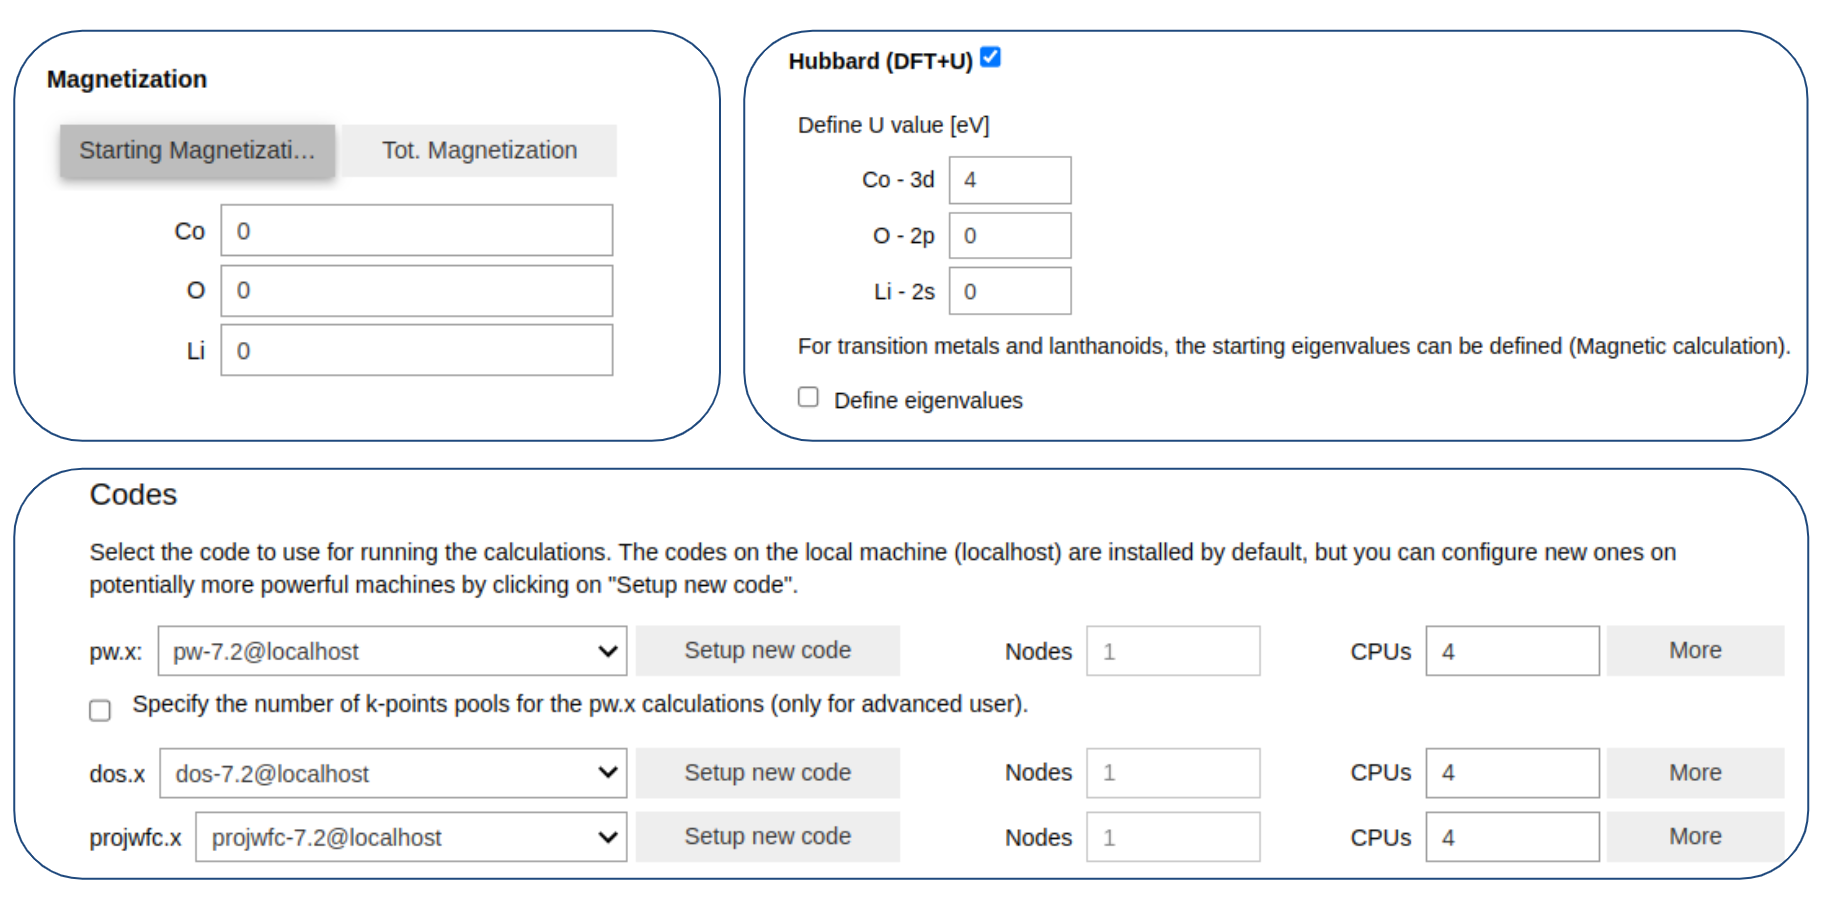
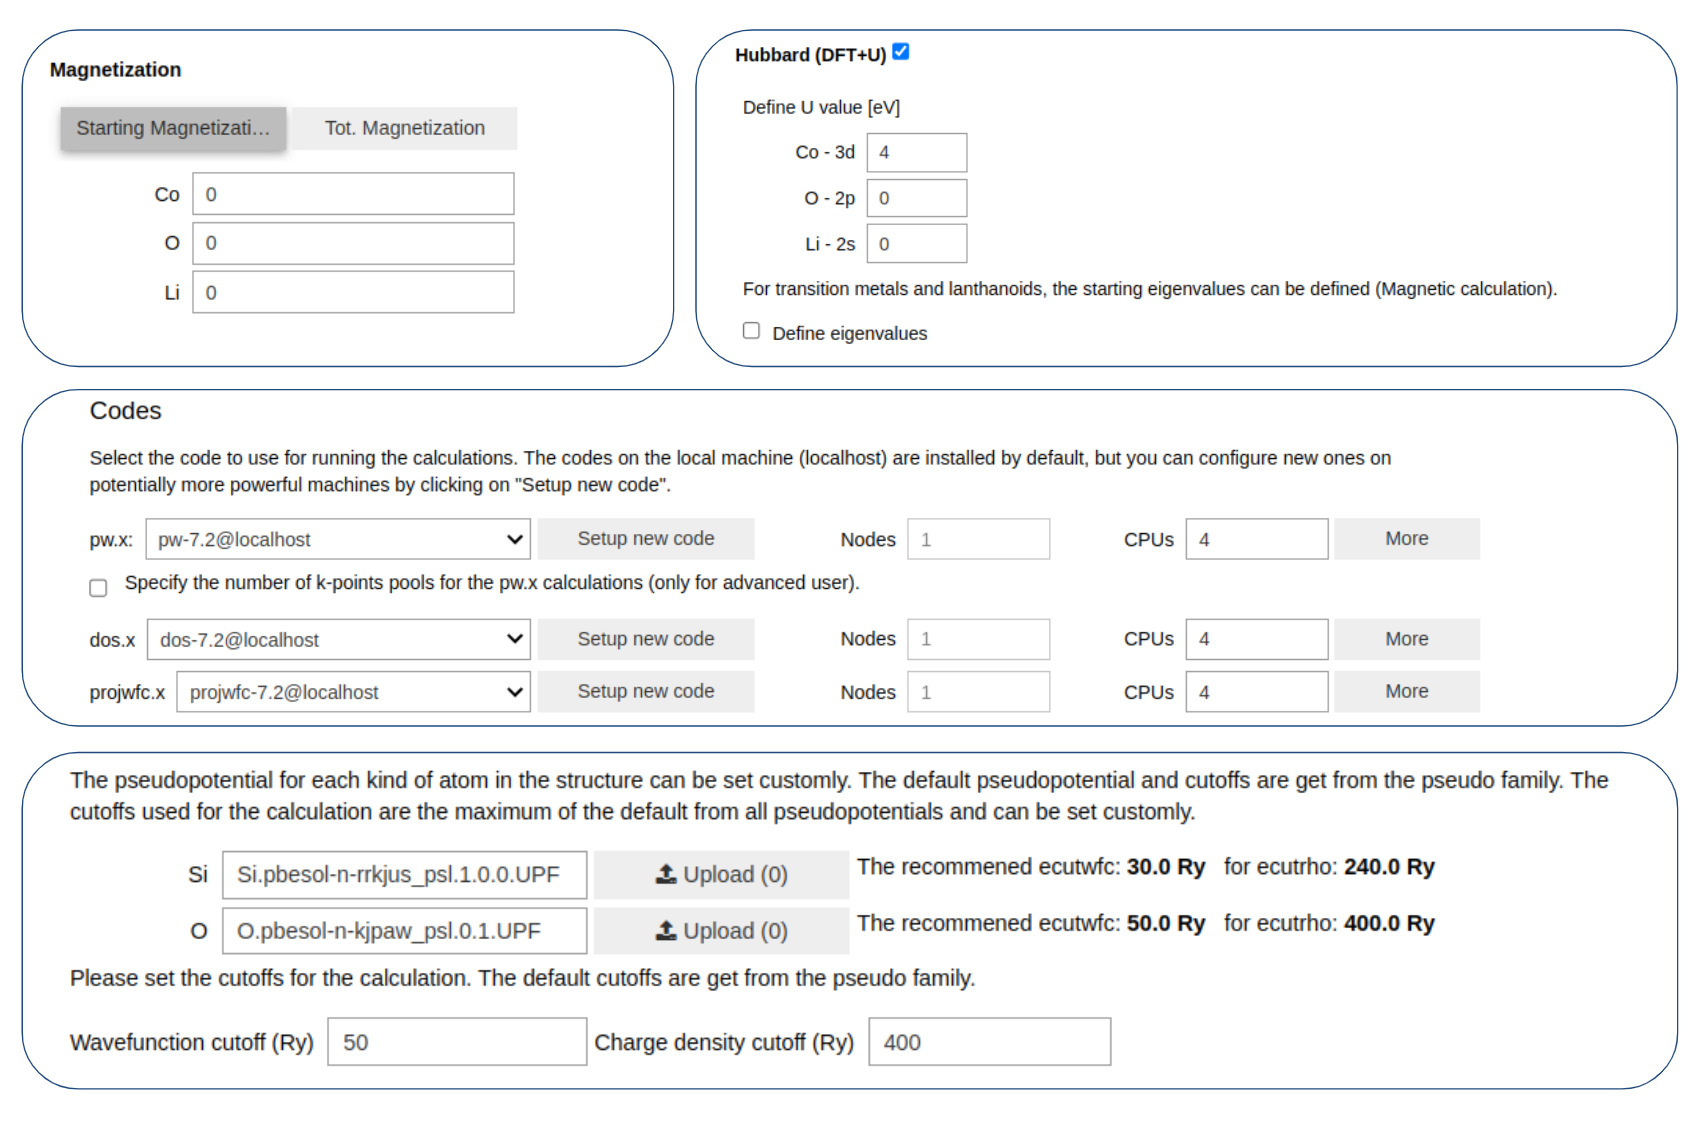
add pseudopotential widget and update the release details

diff --git a/docs/source/blogs/release_202404_details.rst b/docs/source/blogs/release_202404_details.rst
@@ -8,58 +8,61 @@ New Feature:
 
 
 - Add plugin: XPS by @superstar54 in `#518 <https://github.com/aiidalab/aiidalab-qe/pull/518>`_
-- Add new computational resource widget by @superstar54 in `#518 <https://github.com/aiidalab/aiidalab-qe/pull/566>`_
-- Support DFT+U by @AndresOrtegaGuerrero in `#518 <https://github.com/aiidalab/aiidalab-qe/pull/577>`_
-- Add plugin: XAS Plugin by @PNOGillespie in `#518 <https://github.com/aiidalab/aiidalab-qe/pull/580>`_
-- New BandsPdosWidget by @AndresOrtegaGuerrero in `#518 <https://github.com/aiidalab/aiidalab-qe/pull/581>`_
-- Add Van del Waals Correction widget by @AndresOrtegaGuerrero in `#518 <https://github.com/aiidalab/aiidalab-qe/pull/620>`_
-- Add plugin management page by @superstar54 in `#518 <https://github.com/aiidalab/aiidalab-qe/pull/646>`_
-- Add job search page by @superstar54 in `#518 <https://github.com/aiidalab/aiidalab-qe/pull/657>`_
-- Add label and description for the job by @superstar54 in `#518 <https://github.com/aiidalab/aiidalab-qe/pull/670>`_
+- Add new computational resource widget by @superstar54 in `#566 <https://github.com/aiidalab/aiidalab-qe/pull/566>`_
+- Support DFT+U by @AndresOrtegaGuerrero in `#577 <https://github.com/aiidalab/aiidalab-qe/pull/577>`_
+- Add plugin: XAS Plugin by @PNOGillespie in `#580 <https://github.com/aiidalab/aiidalab-qe/pull/580>`_
+- New BandsPdosWidget by @AndresOrtegaGuerrero in `#581 <https://github.com/aiidalab/aiidalab-qe/pull/581>`_
+- Add Van del Waals Correction widget by @AndresOrtegaGuerrero in `#620 <https://github.com/aiidalab/aiidalab-qe/pull/620>`_
+- Add plugin management page by @superstar54 in `#646 <https://github.com/aiidalab/aiidalab-qe/pull/646>`_
+- Add job search page by @superstar54 in `#657 <https://github.com/aiidalab/aiidalab-qe/pull/657>`_
+- Add label and description for the job by @superstar54 in `#670 <https://github.com/aiidalab/aiidalab-qe/pull/670>`_
+- Add converge thresholds by @AndresOrtegaGuerrero in `#699 <https://github.com/aiidalab/aiidalab-qe/pull/699>`_
+- Support using customize pseudopotential by @unkcpz in `#435 <https://github.com/aiidalab/aiidalab-qe/pull/435>`_
 
 New registered plugins:
 
 - `aiida-bader <https://github.com/superstar54/aiida-bader>`_ by @superstar54
 - `aiidalab-qe-muon <https://github.com/mikibonacci/aiidalab-qe-muon>`_ by @mikibonacci
-- `aiidalab-qe-soc <https://github.com/AndresOrtegaGuerrero/aiidalab-qe-soc>`_ by @AndresOrtegaGuerrero
 - `aiidalab-qe-vibroscopy <https://github.com/mikibonacci/aiidalab-qe-vibroscopy>`_ by @mikibonacci and @AndresOrtegaGuerrero
 
 
 User friendly improvements:
 
-- Remove the load_profile warning by move it to front by @unkcpz in `#518 <https://github.com/aiidalab/aiidalab-qe/pull/599>`_
-- Add an adjustable intensity factor for XPS spectra by @superstar54 in `#518 <https://github.com/aiidalab/aiidalab-qe/pull/642>`_
-- Hide kill button when the process is done by @superstar54 in `#518 <https://github.com/aiidalab/aiidalab-qe/pull/648>`_
-- Add HP code and LiCoO2 example by @superstar54 in `#518 <https://github.com/aiidalab/aiidalab-qe/pull/655>`_
-- Add reminder text when users selecting property by @superstar54 in `#518 <https://github.com/aiidalab/aiidalab-qe/pull/663>`_
+- Remove the load_profile warning by move it to front by @unkcpz in `#599 <https://github.com/aiidalab/aiidalab-qe/pull/599>`_
+- Add an adjustable intensity factor for XPS spectra by @superstar54 in `#642 <https://github.com/aiidalab/aiidalab-qe/pull/642>`_
+- Hide kill button when the process is done by @superstar54 in `#648 <https://github.com/aiidalab/aiidalab-qe/pull/648>`_
+- Add HP code and LiCoO2 example by @superstar54 in `#655 <https://github.com/aiidalab/aiidalab-qe/pull/655>`_
+- Add reminder text when users selecting property by @superstar54 in `#663 <https://github.com/aiidalab/aiidalab-qe/pull/663>`_
 
 
 Development improvements:
 
-- Add aiida-core-version in ci and action by @superstar54 in `#518 <https://github.com/aiidalab/aiidalab-qe/pull/643>`_
-- Regression test for the parameters generated by the app by @superstar54 in `#518 <https://github.com/aiidalab/aiidalab-qe/pull/644>`_
-- New plugin API: add a update_inputs to plugin's workchain_and_builder by @superstar54 in `#518 <https://github.com/aiidalab/aiidalab-qe/pull/656>`_
+- Add aiida-core-version in ci and action by @superstar54 in `#643 <https://github.com/aiidalab/aiidalab-qe/pull/643>`_
+- Regression test for the parameters generated by the app by @superstar54 in `#644 <https://github.com/aiidalab/aiidalab-qe/pull/644>`_
+- New plugin API: add a update_inputs to plugin's workchain_and_builder by @superstar54 in `#656 <https://github.com/aiidalab/aiidalab-qe/pull/656>`_
+- Add bumpver pre-commit by @danielhollas in `#688 <https://github.com/aiidalab/aiidalab-qe/pull/688>`_
+- Use python script to setup all codes in one-shot by @superstar54 in `#706 <https://github.com/aiidalab/aiidalab-qe/pull/706>`_
 
 Bug fixes:
 
-- Fix tot magnetization by @AndresOrtegaGuerrero in `#518 <https://github.com/aiidalab/aiidalab-qe/pull/512>`_
-- Remove force_parity from create_kpoints_from_distance by @AndresOrtegaGuerrero in `#518 <https://github.com/aiidalab/aiidalab-qe/pull/598>`_
-- Include xas yaml in package data by @superstar54 in `#518 <https://github.com/aiidalab/aiidalab-qe/pull/609>`_
-- Fix Hexagonal 2D path order by @AndresOrtegaGuerrero in `#518 <https://github.com/aiidalab/aiidalab-qe/pull/619>`_
-- Fix pw setting for molecule in XPS calculation by @superstar54 in `#518 <https://github.com/aiidalab/aiidalab-qe/pull/625>`_
-- Check code exist in the DEFAULT_PARAMETERS or not by @superstar54 in `#518 <https://github.com/aiidalab/aiidalab-qe/pull/660>`_
-- Assgin clean_workdir to plugin's builder by @superstar54 in `#518 <https://github.com/aiidalab/aiidalab-qe/pull/667>`_
-- Check if the code is installed and usable by @superstar54 in `#518 <https://github.com/aiidalab/aiidalab-qe/pull/669>`_
+- Fix tot magnetization by @AndresOrtegaGuerrero in `#512 <https://github.com/aiidalab/aiidalab-qe/pull/512>`_
+- Remove force_parity from create_kpoints_from_distance by @AndresOrtegaGuerrero in `#598 <https://github.com/aiidalab/aiidalab-qe/pull/598>`_
+- Include xas yaml in package data by @superstar54 in `#609 <https://github.com/aiidalab/aiidalab-qe/pull/609>`_
+- Fix Hexagonal 2D path order by @AndresOrtegaGuerrero in `#619 <https://github.com/aiidalab/aiidalab-qe/pull/619>`_
+- Fix pw setting for molecule in XPS calculation by @superstar54 in `#625 <https://github.com/aiidalab/aiidalab-qe/pull/625>`_
+- Check code exist in the DEFAULT_PARAMETERS or not by @superstar54 in `#660 <https://github.com/aiidalab/aiidalab-qe/pull/660>`_
+- Assgin clean_workdir to plugin's builder by @superstar54 in `#667 <https://github.com/aiidalab/aiidalab-qe/pull/667>`_
+- Check if the code is installed and usable by @superstar54 in `#669 <https://github.com/aiidalab/aiidalab-qe/pull/669>`_
 
 Documentation:
 
-- Add XPS to howto by @superstar54 in `#518 <https://github.com/aiidalab/aiidalab-qe/pull/438>`_
-- Update acknowledgement by @superstar54 in `#518 <https://github.com/aiidalab/aiidalab-qe/pull/608>`_
-- Update README.md for release management by @unkcpz in `#518 <https://github.com/aiidalab/aiidalab-qe/pull/612>`_
-- Add documentation page for XAS plugin by @PNOGillespie in `#518 <https://github.com/aiidalab/aiidalab-qe/pull/614>`_
-- Link logos to docs folder by @superstar54 in `#518 <https://github.com/aiidalab/aiidalab-qe/pull/616>`_
-- Add Lithium Carbonate to List of Examples by @PNOGillespie in `#518 <https://github.com/aiidalab/aiidalab-qe/pull/622>`_
-- Update docstrings and documentation consistent by @superstar54 in `#518 <https://github.com/aiidalab/aiidalab-qe/pull/649>`_
+- Add XPS to howto by @superstar54 in `#438 <https://github.com/aiidalab/aiidalab-qe/pull/438>`_
+- Update acknowledgement by @superstar54 in `#608 <https://github.com/aiidalab/aiidalab-qe/pull/608>`_
+- Update README.md for release management by @unkcpz in `#612 <https://github.com/aiidalab/aiidalab-qe/pull/612>`_
+- Add documentation page for XAS plugin by @PNOGillespie in `#614 <https://github.com/aiidalab/aiidalab-qe/pull/614>`_
+- Link logos to docs folder by @superstar54 in `#616 <https://github.com/aiidalab/aiidalab-qe/pull/616>`_
+- Add Lithium Carbonate to List of Examples by @PNOGillespie in `#622 <https://github.com/aiidalab/aiidalab-qe/pull/622>`_
+- Update docstrings and documentation consistent by @superstar54 in `#649 <https://github.com/aiidalab/aiidalab-qe/pull/649>`_
 
 Dependency updates:
 

diff --git a/docs/source/blogs/release_202404.rst b/docs/source/blogs/release_202404.rst
@@ -38,7 +38,7 @@ To facilitate better job management, we have added a new job search page that al
 
 New Widgets
 ----------------------
-This release also introduces several new widgets, including tools for DFT+U, magnetic settings, and computational resources setup, further enhancing the functionality and user flexibility of QEApp.
+This release also introduces several new widgets, including tools for DFT+U, magnetic settings, computational resources and pseudopotential setup, further enhancing the functionality and user flexibility of QEApp.
 
 .. figure:: /_static/images/qeapp_release_202404_new_widgets.png
    :align: center
